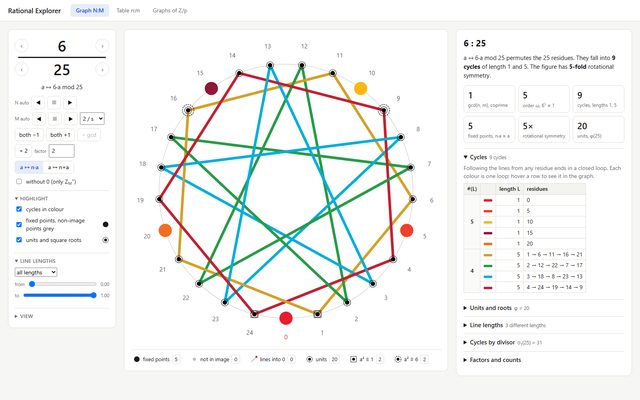
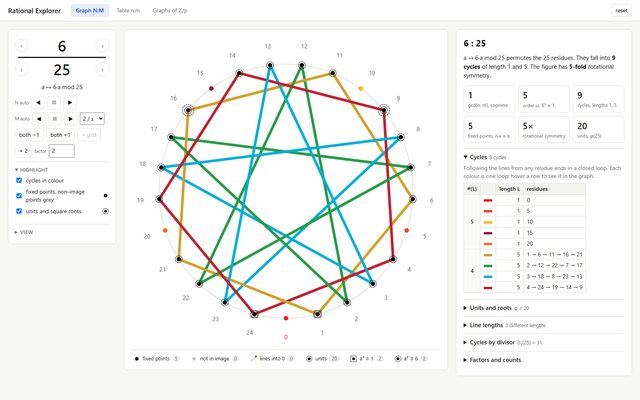
Experiment: smaller fixed points

diff --git a/modular-arithmetic/js/core/geometry.js b/modular-arithmetic/js/core/geometry.js
@@ -85,15 +85,25 @@
         }
       }
       const p = pts.get(e.from), q = pts.get(e.to)
-      lines.push({ x1: p.x, y1: p.y, x2: q.x, y2: q.y, color, width, order })
+      lines.push({ x1: p.x, y1: p.y, x2: q.x, y2: q.y, color, width, order, fixed: e.from === e.to })
     })
+    // Fixpunkte höchstens so dick wie die dickste Zyklenlinie (Nutzer, 3. November 2026; nicht in der Tabelle): Der Durchmesser eines
+    // Fixpunkts (Linie der Länge 0 und hervorgehobener Punkt) ist höchstens die Breite der dicksten Linie eines Zyklus
+    // mit mindestens zwei Elementen; ohne solchen Zyklus die Breite, die ein Zyklus der Länge 2 hätte. Der Punkt einer
+    // Linie der Länge 0 ist zudem nie kleiner als ein gewöhnlicher Punkt.
+    const cycleWidths = lines.filter((l) => !l.fixed && graph.edges[l.order].cycleIndex !== null && showCycles).map((l) => l.width)
+    const maxFixedD = cycleWidths.length ? Math.max(...cycleWidths) : (sc * w0) / 2
+    const minFixedD = 2 * (context === 'single' ? 5 : 2)
+    if (!isTable) lines.forEach((l) => { if (l.fixed) l.width = Math.max(Math.min(l.width, minFixedD), Math.min(l.width, maxFixedD)) })
+    lines.forEach((l) => { delete l.fixed })
 
     const imageSet = new Set(graph.imagePoints)
     const fixedSet = new Set(graph.fixedPoints)
     // Radius des Kreises in denselben Pixeln wie die Punktradien: 0,45 · 640 im SVG, 0,45 · 120 in der Tabellenzelle.
     const circleR = isTable ? 0.45 * 120 : 0.45 * 640
     const baseR = context === 'single' ? 5 : 2
-    const fixedR = context === 'single' ? 10 : context === 'neighbour' ? 8 : 3.6
+    // höchstens so dick wie die dickste Zyklenlinie, aber nie kleiner als ein gewöhnlicher Punkt
+    const fixedR = isTable ? 3.6 : Math.max(baseR, Math.min(context === 'single' ? 10 : 8, maxFixedD / 2))
     // In der Einzelansicht bleiben Fixpunkte auch bei farbigen Zyklen groß und tragen die Farbe ihres Zyklus.
     const cycleOfFixed = new Map()
     if (context === 'single' && showCycles) {

diff --git a/modular-arithmetic/js/ui/singleView.js b/modular-arithmetic/js/ui/singleView.js
@@ -60,7 +60,7 @@
 
   // Kleine SVG-Symbole für Bedienspalte und Zeichenerklärung; sie entsprechen der Darstellung im Graphen.
   const GLYPHS = {
-    fixed: () => [svgEl('circle', { cx: 9, cy: 9, r: 7, fill: '#1a1a1a' })],
+    fixed: () => [svgEl('circle', { cx: 9, cy: 9, r: 4.5, fill: '#1a1a1a' })],
     nonimage: () => [svgEl('circle', { cx: 9, cy: 9, r: 4, fill: 'silver' })],
     zero: () => [svgEl('line', { x1: 2, y1: 16, x2: 15, y2: 3, stroke: 'silver', 'stroke-width': 2 }), svgEl('circle', { cx: 15, cy: 3, r: 2.5, fill: '#c81e1e' })],
     unit: () => [svgEl('circle', { cx: 9, cy: 9, r: 3.5 }), svgEl('circle', { cx: 9, cy: 9, r: 7, fill: 'none', stroke: '#1a1a1a' })],

diff --git a/index.html b/index.html
@@ -146,7 +146,7 @@
     <a class="card" href="modular-arithmetic/index.html">
       <div class="shot"><img src="images/modular-arithmetic.jpg" alt="" loading="lazy" width="960" height="600"></div>
       <div class="body">
-        <p class="kind">Explorer</p>
+        <p class="kind">Experiment</p>
         <h3>Multiplication Graphs n : m</h3>
         <p>The residues 0 to m − 1 on a circle, each residue a joined to n·a mod m: cycles, fixed points, units and roots, and a table of all graphs n : m.</p>
       </div>
